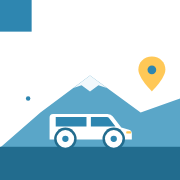
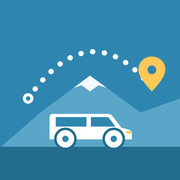
Add files via upload

diff --git a/README.md b/README.md
@@ -1,4 +1,4 @@
-# ドライブ精算
+# SPLITRIDE（ドライブ精算）
 
 自分の車で友人と遠出したときの交通費を、乗車区間に応じて按分するWebアプリです。
 `index.html` 1ファイルだけで動きます（ビルド不要）。スマホのブラウザでも使えます。
